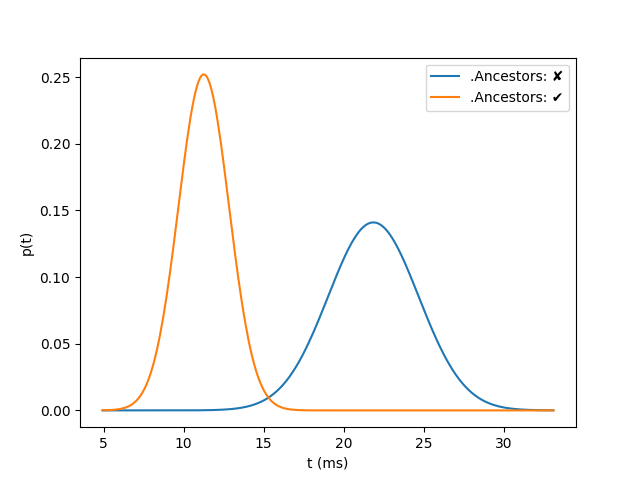
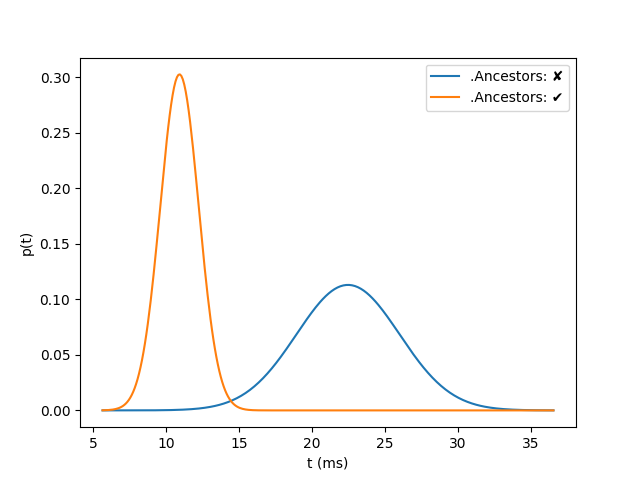
hugo-tmpl-new-feature-backward-compat: Update template benchmark results

diff --git a/static/res/posts/2023-01-06-hugo-tmpl-new-feature-backward-compat/plot_exec_time_dist.py b/static/res/posts/2023-01-06-hugo-tmpl-new-feature-backward-compat/plot_exec_time_dist.py
@@ -36,12 +36,12 @@ def main():
         'legend': [".Ancestors: \u2718", ".Ancestors: \u2714"],
     }
     series1 = [
-        23.360982, 25.673855, 16.676426, 21.724248, 21.823904,
-        23.215258, 20.530041, 19.765254, 19.293112, 26.525782,
+        20.843343, 17.97466 , 20.916035, 21.813846, 28.113151,
+        17.310946, 23.29696 , 20.942715, 27.327393, 26.188482,
     ]
     series2 = [
-        11.581039,  9.629813, 14.392727,  9.619406, 10.613697,
-        11.262963, 10.649529, 13.811549,  9.685682, 11.274625,
+        13.876398,  9.453452, 10.339717, 10.727788,  9.777874,
+         9.753709, 10.858828, 12.769683, 10.897951, 10.785715,
     ]
     create_plot(file_name, annotations, series1, series2)
 

diff --git a/content/zh/posts/2023-01-06-hugo-tmpl-new-feature-backward-compat.md b/content/zh/posts/2023-01-06-hugo-tmpl-new-feature-backward-compat.md
@@ -42,10 +42,13 @@ categories:
 
 使用 `.Ancestors` 除了能让面包屑模板更简洁，还能让模板的速度更快。我对这两个版本的样例模板进行了性能测试，分别使用它们为本网站上的全部 174 个页面（统计于本文被编写时）生成面包屑，结果是使用 `.Ancestors` 的模板的速度是不使用它的模板的大约两倍。（关于性能测试的更多详情，请参见[附录][appendix-benchmark]。）
 
+{{< date.inline >}}{{ "2023-01-10" | time.Format ":date_long" }}{{< /date.inline >}}更新：我使用 Hugo 的 `--ignoreCache` 和 `--renderToMemory` 选项重新运行了一遍性能测试，并相应地更新了测试结果。这两个选项分别会让 Hugo 不使用缓存以及将网站渲染到内存；和我在第一次测试时将生成的文件写到 tmpfs 相比，这两个选项理论上能更好地避免文件系统读写造成的性能波动。
+{.notice}
+
 | 面包屑模板           |  平均总运行耗时 |
 | :----------------- | ------------: |
-| 不使用 `.Ancestors` | 21.8588862 ms |
-| 使用 `.Ancestors`   |  11.252103 ms |
+| 不使用 `.Ancestors` | 22.4727531 ms |
+| 使用 `.Ancestors`   | 10.9241115 ms |
 
 因为我一直以来都在自行编写和维护本网站使用的 Hugo 模板，所以一看到使用 `.Ancestors` 的样例模板，就开始想着把[我自己的面包屑模板][my-tmpl-breadcrumb-old]也改成差不多的。以前的模板在以后的 Hugo 版本中肯定是还能继续用的，所以我也不是说*必须*改模板；甚至，根据“代码能跑就不要再乱动”的原则，我是*不应该*改它的。但是一想到用了 `.Ancestors` 的让代码既能更美观、也能更快的好处，我直接大手一挥，管它有什么原则，干就完了。
 
@@ -162,31 +165,31 @@ $ for i in {1..10}; do
 > rm -r /tmp/hugo_cache
 > /tmp/hugo --destination /tmp/public --templateMetrics | grep -F 'partials/breadcrumbs.html'
 > done
-    23.360982ms     134.258µs    3.187397ms    174  partials/breadcrumbs.html
-    25.673855ms      147.55µs    2.658119ms    174  partials/breadcrumbs.html
-    16.676426ms      95.841µs     589.762µs    174  partials/breadcrumbs.html
-    21.724248ms     124.852µs    2.150144ms    174  partials/breadcrumbs.html
-    21.823904ms     125.424µs    2.396832ms    174  partials/breadcrumbs.html
-    23.215258ms     133.421µs    4.748894ms    174  partials/breadcrumbs.html
-    20.530041ms     117.988µs    1.457153ms    174  partials/breadcrumbs.html
-    19.765254ms     113.593µs    1.685052ms    174  partials/breadcrumbs.html
-    19.293112ms     110.879µs     960.213µs    174  partials/breadcrumbs.html
-    26.525782ms     152.447µs    5.964104ms    174  partials/breadcrumbs.html
+    20.843343ms     119.789µs    2.037636ms    174  partials/breadcrumbs.html
+     17.97466ms     103.302µs     731.496µs    174  partials/breadcrumbs.html
+    20.916035ms     120.207µs    1.324354ms    174  partials/breadcrumbs.html
+    21.813846ms     125.366µs    2.276513ms    174  partials/breadcrumbs.html
+    28.113151ms     161.569µs    4.627905ms    174  partials/breadcrumbs.html
+    17.310946ms      99.488µs    1.667575ms    174  partials/breadcrumbs.html
+     23.29696ms      133.89µs    3.878245ms    174  partials/breadcrumbs.html
+    20.942715ms      120.36µs    1.319785ms    174  partials/breadcrumbs.html
+    27.327393ms     157.053µs    5.052419ms    174  partials/breadcrumbs.html
+    26.188482ms     150.508µs     8.38873ms    174  partials/breadcrumbs.html
 $ # 测试使用 '.Ancestors' 的面包屑模板
 $ for i in {1..10}; do
 > rm -r /tmp/hugo_cache
 > /tmp/hugo --destination /tmp/public --templateMetrics | grep -F 'partials/breadcrumbs.html'
 > done
-    11.581039ms      66.557µs     932.621µs    174  partials/breadcrumbs.html
-     9.629813ms      55.343µs     281.399µs    174  partials/breadcrumbs.html
-    14.392727ms      82.716µs    3.841255ms    174  partials/breadcrumbs.html
-     9.619406ms      55.283µs     628.243µs    174  partials/breadcrumbs.html
-    10.613697ms      60.998µs     987.308µs    174  partials/breadcrumbs.html
-    11.262963ms      64.729µs    1.069025ms    174  partials/breadcrumbs.html
-    10.649529ms      61.204µs     485.482µs    174  partials/breadcrumbs.html
-    13.811549ms      79.376µs    3.165308ms    174  partials/breadcrumbs.html
-     9.685682ms      55.664µs    1.046395ms    174  partials/breadcrumbs.html
-    11.274625ms      64.796µs     592.692µs    174  partials/breadcrumbs.html
+    13.876398ms      79.749µs    3.214174ms    174  partials/breadcrumbs.html
+     9.453452ms       54.33µs     625.308µs    174  partials/breadcrumbs.html
+    10.339717ms      59.423µs    1.403833ms    174  partials/breadcrumbs.html
+    10.727788ms      61.653µs     796.077µs    174  partials/breadcrumbs.html
+     9.777874ms      56.194µs    1.072293ms    174  partials/breadcrumbs.html
+     9.753709ms      56.055µs      771.05µs    174  partials/breadcrumbs.html
+    10.858828ms      62.407µs    1.250856ms    174  partials/breadcrumbs.html
+    12.769683ms      73.388µs    1.658969ms    174  partials/breadcrumbs.html
+    10.897951ms      62.631µs     805.244µs    174  partials/breadcrumbs.html
+    10.785715ms      61.986µs     772.212µs    174  partials/breadcrumbs.html
 ```
 
 {{<asciicast

diff --git a/content/en/posts/2023-01-06-hugo-tmpl-new-feature-backward-compat.md b/content/en/posts/2023-01-06-hugo-tmpl-new-feature-backward-compat.md
@@ -55,10 +55,18 @@ on this website as of writing, and the template which uses `.Ancestors` was
 about two times faster than the one which does not.  (More details about the
 benchmark are available in the [appendix][appendix-benchmark].)
 
+Update on {{< date.inline >}}{{ "2023-01-10" | time.Format ":date_long" }}{{<
+/date.inline >}}: I reran the benchmark by invoking Hugo with `--ignoreCache`
+and `--renderToMemory` options; theoretically, this should help avoid
+performance deviations caused by file system I/O better than using a directory
+on a tmpfs as the output destination, which was what I did in the first
+benchmark run.  The benchmark results were updated accordingly.
+{.notice}
+
 | Breadcrumb Template       | Mean Total Execution Time |
 | :------------------------ | ------------------------: |
-| Does Not Use `.Ancestors` |             21.8588862 ms |
-| Uses `.Ancestors`         |              11.252103 ms |
+| Does Not Use `.Ancestors` |             22.4727531 ms |
+| Uses `.Ancestors`         |             10.9241115 ms |
 
 Because I had been writing and maintaining Hugo templates used by this website
 myself, I immediately contemplated incorporating the new `.Ancestors` variable
@@ -242,34 +250,32 @@ $ /tmp/hugo --templateMetrics | head -n 8 | tail -n 4
      ----------      --------      --------  -----  --------
 $ # Benchmarking the breadcrumb template that does not use '.Ancestors'
 $ for i in {1..10}; do
-> rm -r /tmp/hugo_cache
-> /tmp/hugo --destination /tmp/public --templateMetrics | grep -F 'partials/breadcrumbs.html'
+> /tmp/hugo --ignoreCache --renderToMemory --templateMetrics | grep -F 'partials/breadcrumbs.html'
 > done
-    23.360982ms     134.258µs    3.187397ms    174  partials/breadcrumbs.html
-    25.673855ms      147.55µs    2.658119ms    174  partials/breadcrumbs.html
-    16.676426ms      95.841µs     589.762µs    174  partials/breadcrumbs.html
-    21.724248ms     124.852µs    2.150144ms    174  partials/breadcrumbs.html
-    21.823904ms     125.424µs    2.396832ms    174  partials/breadcrumbs.html
-    23.215258ms     133.421µs    4.748894ms    174  partials/breadcrumbs.html
-    20.530041ms     117.988µs    1.457153ms    174  partials/breadcrumbs.html
-    19.765254ms     113.593µs    1.685052ms    174  partials/breadcrumbs.html
-    19.293112ms     110.879µs     960.213µs    174  partials/breadcrumbs.html
-    26.525782ms     152.447µs    5.964104ms    174  partials/breadcrumbs.html
+    20.843343ms     119.789µs    2.037636ms    174  partials/breadcrumbs.html
+     17.97466ms     103.302µs     731.496µs    174  partials/breadcrumbs.html
+    20.916035ms     120.207µs    1.324354ms    174  partials/breadcrumbs.html
+    21.813846ms     125.366µs    2.276513ms    174  partials/breadcrumbs.html
+    28.113151ms     161.569µs    4.627905ms    174  partials/breadcrumbs.html
+    17.310946ms      99.488µs    1.667575ms    174  partials/breadcrumbs.html
+     23.29696ms      133.89µs    3.878245ms    174  partials/breadcrumbs.html
+    20.942715ms      120.36µs    1.319785ms    174  partials/breadcrumbs.html
+    27.327393ms     157.053µs    5.052419ms    174  partials/breadcrumbs.html
+    26.188482ms     150.508µs     8.38873ms    174  partials/breadcrumbs.html
 $ # Benchmarking the breadcrumb template that uses '.Ancestors'
 $ for i in {1..10}; do
-> rm -r /tmp/hugo_cache
-> /tmp/hugo --destination /tmp/public --templateMetrics | grep -F 'partials/breadcrumbs.html'
+> /tmp/hugo --ignoreCache --renderToMemory --templateMetrics | grep -F 'partials/breadcrumbs.html'
 > done
-    11.581039ms      66.557µs     932.621µs    174  partials/breadcrumbs.html
-     9.629813ms      55.343µs     281.399µs    174  partials/breadcrumbs.html
-    14.392727ms      82.716µs    3.841255ms    174  partials/breadcrumbs.html
-     9.619406ms      55.283µs     628.243µs    174  partials/breadcrumbs.html
-    10.613697ms      60.998µs     987.308µs    174  partials/breadcrumbs.html
-    11.262963ms      64.729µs    1.069025ms    174  partials/breadcrumbs.html
-    10.649529ms      61.204µs     485.482µs    174  partials/breadcrumbs.html
-    13.811549ms      79.376µs    3.165308ms    174  partials/breadcrumbs.html
-     9.685682ms      55.664µs    1.046395ms    174  partials/breadcrumbs.html
-    11.274625ms      64.796µs     592.692µs    174  partials/breadcrumbs.html
+    13.876398ms      79.749µs    3.214174ms    174  partials/breadcrumbs.html
+     9.453452ms       54.33µs     625.308µs    174  partials/breadcrumbs.html
+    10.339717ms      59.423µs    1.403833ms    174  partials/breadcrumbs.html
+    10.727788ms      61.653µs     796.077µs    174  partials/breadcrumbs.html
+     9.777874ms      56.194µs    1.072293ms    174  partials/breadcrumbs.html
+     9.753709ms      56.055µs      771.05µs    174  partials/breadcrumbs.html
+    10.858828ms      62.407µs    1.250856ms    174  partials/breadcrumbs.html
+    12.769683ms      73.388µs    1.658969ms    174  partials/breadcrumbs.html
+    10.897951ms      62.631µs     805.244µs    174  partials/breadcrumbs.html
+    10.785715ms      61.986µs     772.212µs    174  partials/breadcrumbs.html
 ```
 
 {{<asciicast
